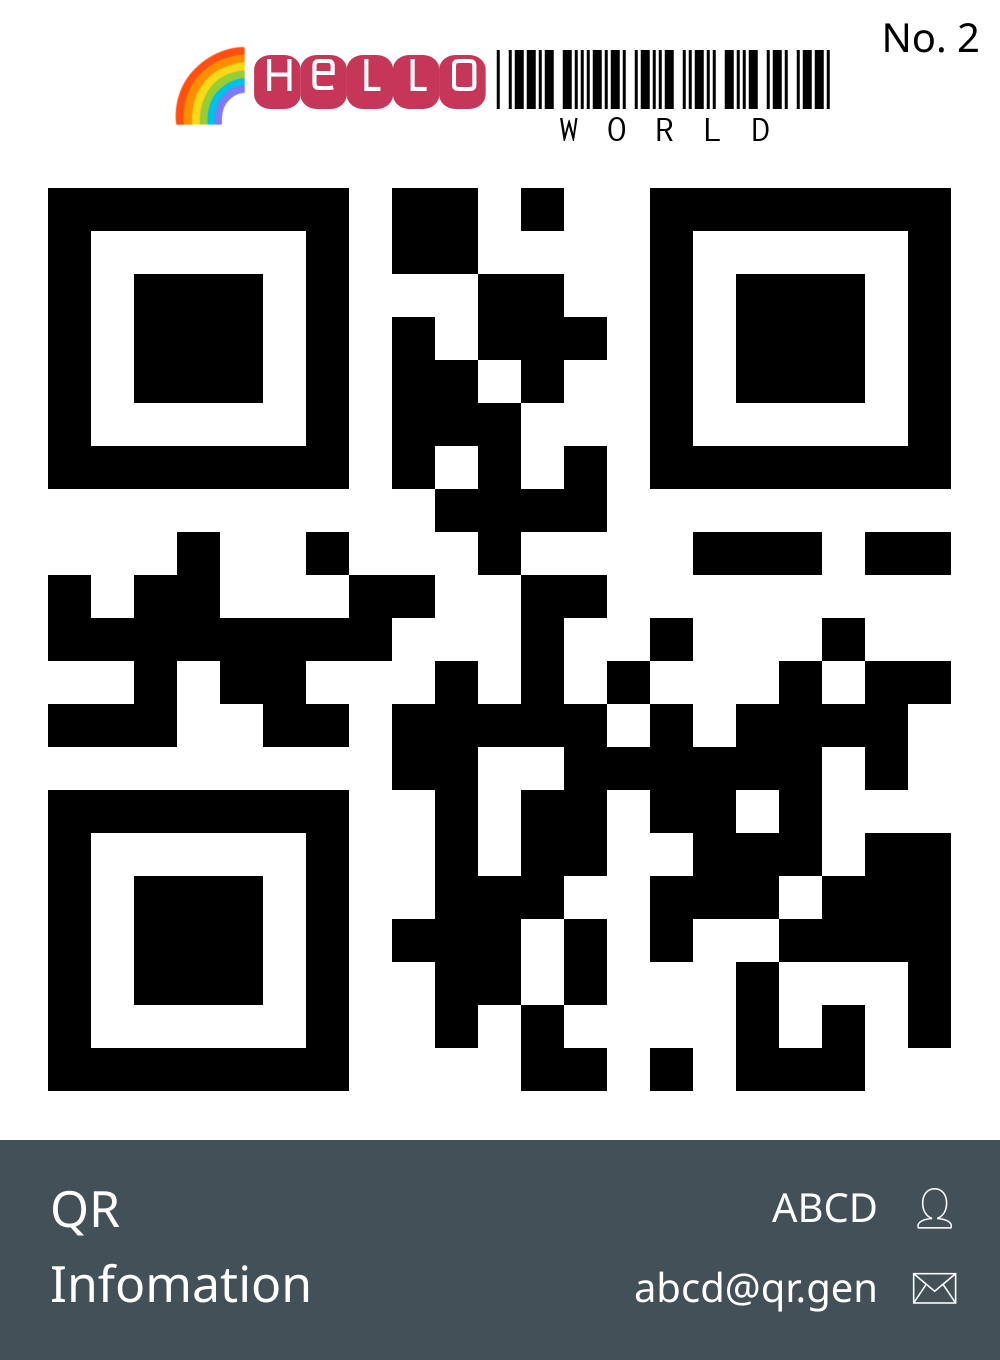
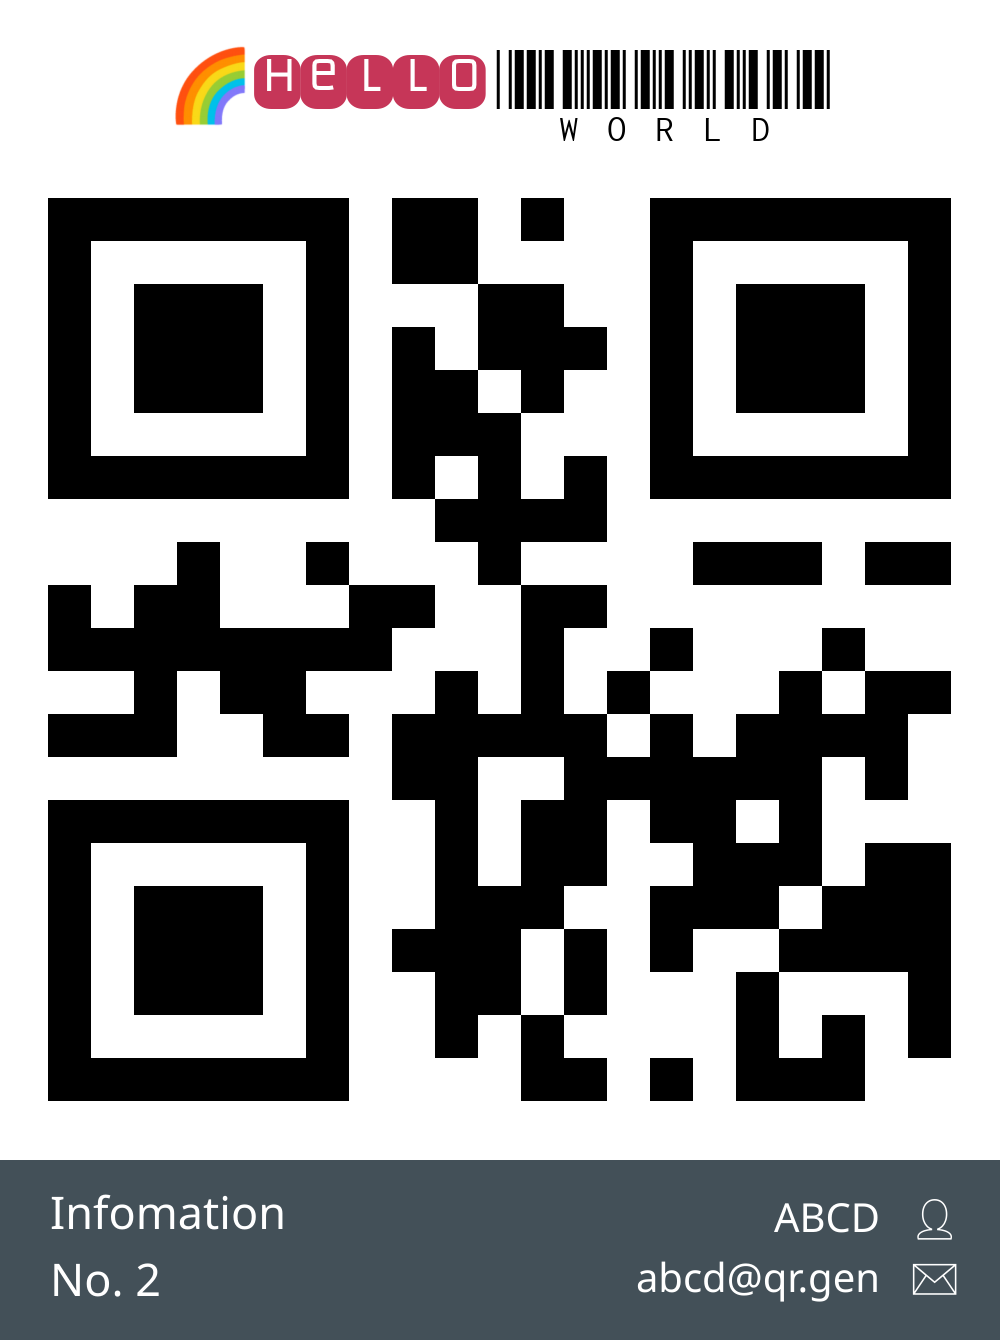
Change command - add image size, qr size, qr position in arg

diff --git a/src/main.rs b/src/main.rs
@@ -1,5 +1,5 @@
 use base64::{engine::general_purpose, Engine};
-use clap::{Parser, Subcommand};
+use clap::{CommandFactory, Parser, Subcommand};
 use rayon::prelude::*;
 use rust_text_draw::{
     fontdb::{self},
@@ -15,10 +15,14 @@ static FONT_DEFAULT: &'static [u8] = include_bytes!("../fonts/poppins-v21-latin-
 
 /// QR Code Generator Tools
 #[derive(Parser, Debug)]
-#[command(author, version, about, long_about = None)]
+#[command(author, version, about, long_about = None, disable_help_flag = true)]
 struct Args {
     #[clap(subcommand)]
     command: Command,
+
+    /// Print help
+    #[arg(long = "help", hide_short_help = true)] // Define only the `--help` flag
+    help: bool,
 }
 
 #[derive(Subcommand, Debug)]
@@ -36,29 +40,29 @@ struct CommonArg {
     #[clap(short = 'f', long, default_value = "console")]
     format: String,
 
+    /// Size of image width
+    #[clap(short = 'w', long = "image_width", default_value = "1000")]
+    image_width: u32,
+
+    /// Size of image height
+    #[clap(short = 'h', long = "image_height", default_value = "1000")]
+    image_height: u32,
+
     /// Size of qr
-    #[clap(short = 's', long, default_value = "1000")]
+    #[clap(short = 'q', long = "qr_size", default_value = "1000")]
     qr_size: u32,
 
     /// Output directory
     #[clap(short = 'o', long, default_value = "output")]
     outdir: String,
 
-    /// Size of left space
-    #[clap(long = "ls", default_value = "0")]
-    left_space: u32,
+    /// Start position qr x axis
+    #[clap(short = 'x', long = "pos_x", default_value = "0")]
+    pos_qr_x: u32,
 
-    /// Size of top space
-    #[clap(long = "ts", default_value = "0")]
-    top_space: u32,
-
-    /// Size of right space
-    #[clap(long = "rs", default_value = "0")]
-    right_space: u32,
-
-    /// Size of bottom space
-    #[clap(long = "bs", default_value = "0")]
-    bottom_space: u32,
+    /// Start position qr y axis
+    #[clap(short = 'y', long = "pos_y", default_value = "0")]
+    pos_qr_y: u32,
 
     /// Template of text render (json5)
     #[clap(short = 'r', long = "ttr")]
@@ -118,6 +122,13 @@ fn main() {
 
     // println!("{:?}", args);
 
+    if args.help {
+        let mut cmd = Args::command();
+        cmd.print_help().unwrap();
+        println!(); // Add a newline for proper formatting
+        return;
+    }
+
     match &args.command {
         Command::Gen(state) => handle_gen_command(state),
         Command::From(state) => handle_from_command(state),
@@ -131,12 +142,12 @@ fn handle_gen_command(gen_opt: &GenArg) {
     let font_db = get_font_db(gen_opt.common_arg.font_path.clone()); //.into_locale_and_db();
 
     let gen_image_opt = qrgen::utils::generate::GenerateImageOptions {
+        image_width: gen_opt.common_arg.image_width,
+        image_height: gen_opt.common_arg.image_height,
         qr_size: gen_opt.common_arg.qr_size,
+        pos_qr_x: gen_opt.common_arg.pos_qr_x,
+        pos_qr_y: gen_opt.common_arg.pos_qr_y,
         error_correction_level: gen_opt.common_arg.error_correction_level.clone(),
-        left_space: gen_opt.common_arg.left_space,
-        top_space: gen_opt.common_arg.top_space,
-        right_space: gen_opt.common_arg.right_space,
-        bottom_space: gen_opt.common_arg.bottom_space,
         template_text_render: gen_opt.common_arg.template_text_render.clone(),
         font_size: gen_opt.common_arg.font_size,
         reduce_font_size: gen_opt.common_arg.reduce_font_size,
@@ -249,12 +260,12 @@ fn generate_list_image(list_data: Vec<Vec<String>>, from_opt: &FromArg, to_base6
                 };
 
             let gen_image_opt = qrgen::utils::generate::GenerateImageOptions {
+                image_width: from_opt.common_arg.image_width,
+                image_height: from_opt.common_arg.image_height,
                 qr_size: from_opt.common_arg.qr_size,
+                pos_qr_x: from_opt.common_arg.pos_qr_x,
+                pos_qr_y: from_opt.common_arg.pos_qr_y,
                 error_correction_level: from_opt.common_arg.error_correction_level.clone(),
-                left_space: from_opt.common_arg.left_space,
-                top_space: from_opt.common_arg.top_space,
-                right_space: from_opt.common_arg.right_space,
-                bottom_space: from_opt.common_arg.bottom_space,
                 template_text_render: template_text_render,
                 font_size: from_opt.common_arg.font_size,
                 reduce_font_size: from_opt.common_arg.reduce_font_size,

diff --git a/src/utils/generate.rs b/src/utils/generate.rs
@@ -10,12 +10,12 @@ pub struct ResultGenerateImage {
 }
 
 pub struct GenerateImageOptions {
+    pub image_width: u32,
+    pub image_height: u32,
     pub qr_size: u32,
     pub error_correction_level: String,
-    pub left_space: u32,
-    pub top_space: u32,
-    pub right_space: u32,
-    pub bottom_space: u32,
+    pub pos_qr_x: u32,
+    pub pos_qr_y: u32,
     pub template_text_render: Option<String>,
     pub font_size: u32,
     pub reduce_font_size: u32,
@@ -40,10 +40,7 @@ pub fn generate_image(
         .expect("Failed to generate QR code");
 
     // Create a new image with additional space at the top
-    let mut new_image = DynamicImage::new_rgba8(
-        qr_code_buffer.width() + opt.left_space + opt.right_space,
-        qr_code_buffer.height() + opt.top_space + opt.bottom_space,
-    );
+    let mut new_image = DynamicImage::new_rgba8(opt.image_width, opt.image_height);
 
     // fill bg base image
     for y in 0..new_image.height() as u32 {
@@ -57,11 +54,11 @@ pub fn generate_image(
         for y in 0..qr_code_buffer.height() {
             let pixel_value = qr_code_buffer.get_pixel(x, y)[0];
             if pixel_value == 0 {
-                new_image.put_pixel(opt.left_space + x, opt.top_space + y, Rgba([0, 0, 0, 255]));
+                new_image.put_pixel(opt.pos_qr_x + x, opt.pos_qr_y + y, Rgba([0, 0, 0, 255]));
             } else {
                 new_image.put_pixel(
-                    opt.left_space + x,
-                    opt.top_space + y,
+                    opt.pos_qr_x + x,
+                    opt.pos_qr_y + y,
                     Rgba([pixel_value, pixel_value, pixel_value, 255]),
                 );
             }
